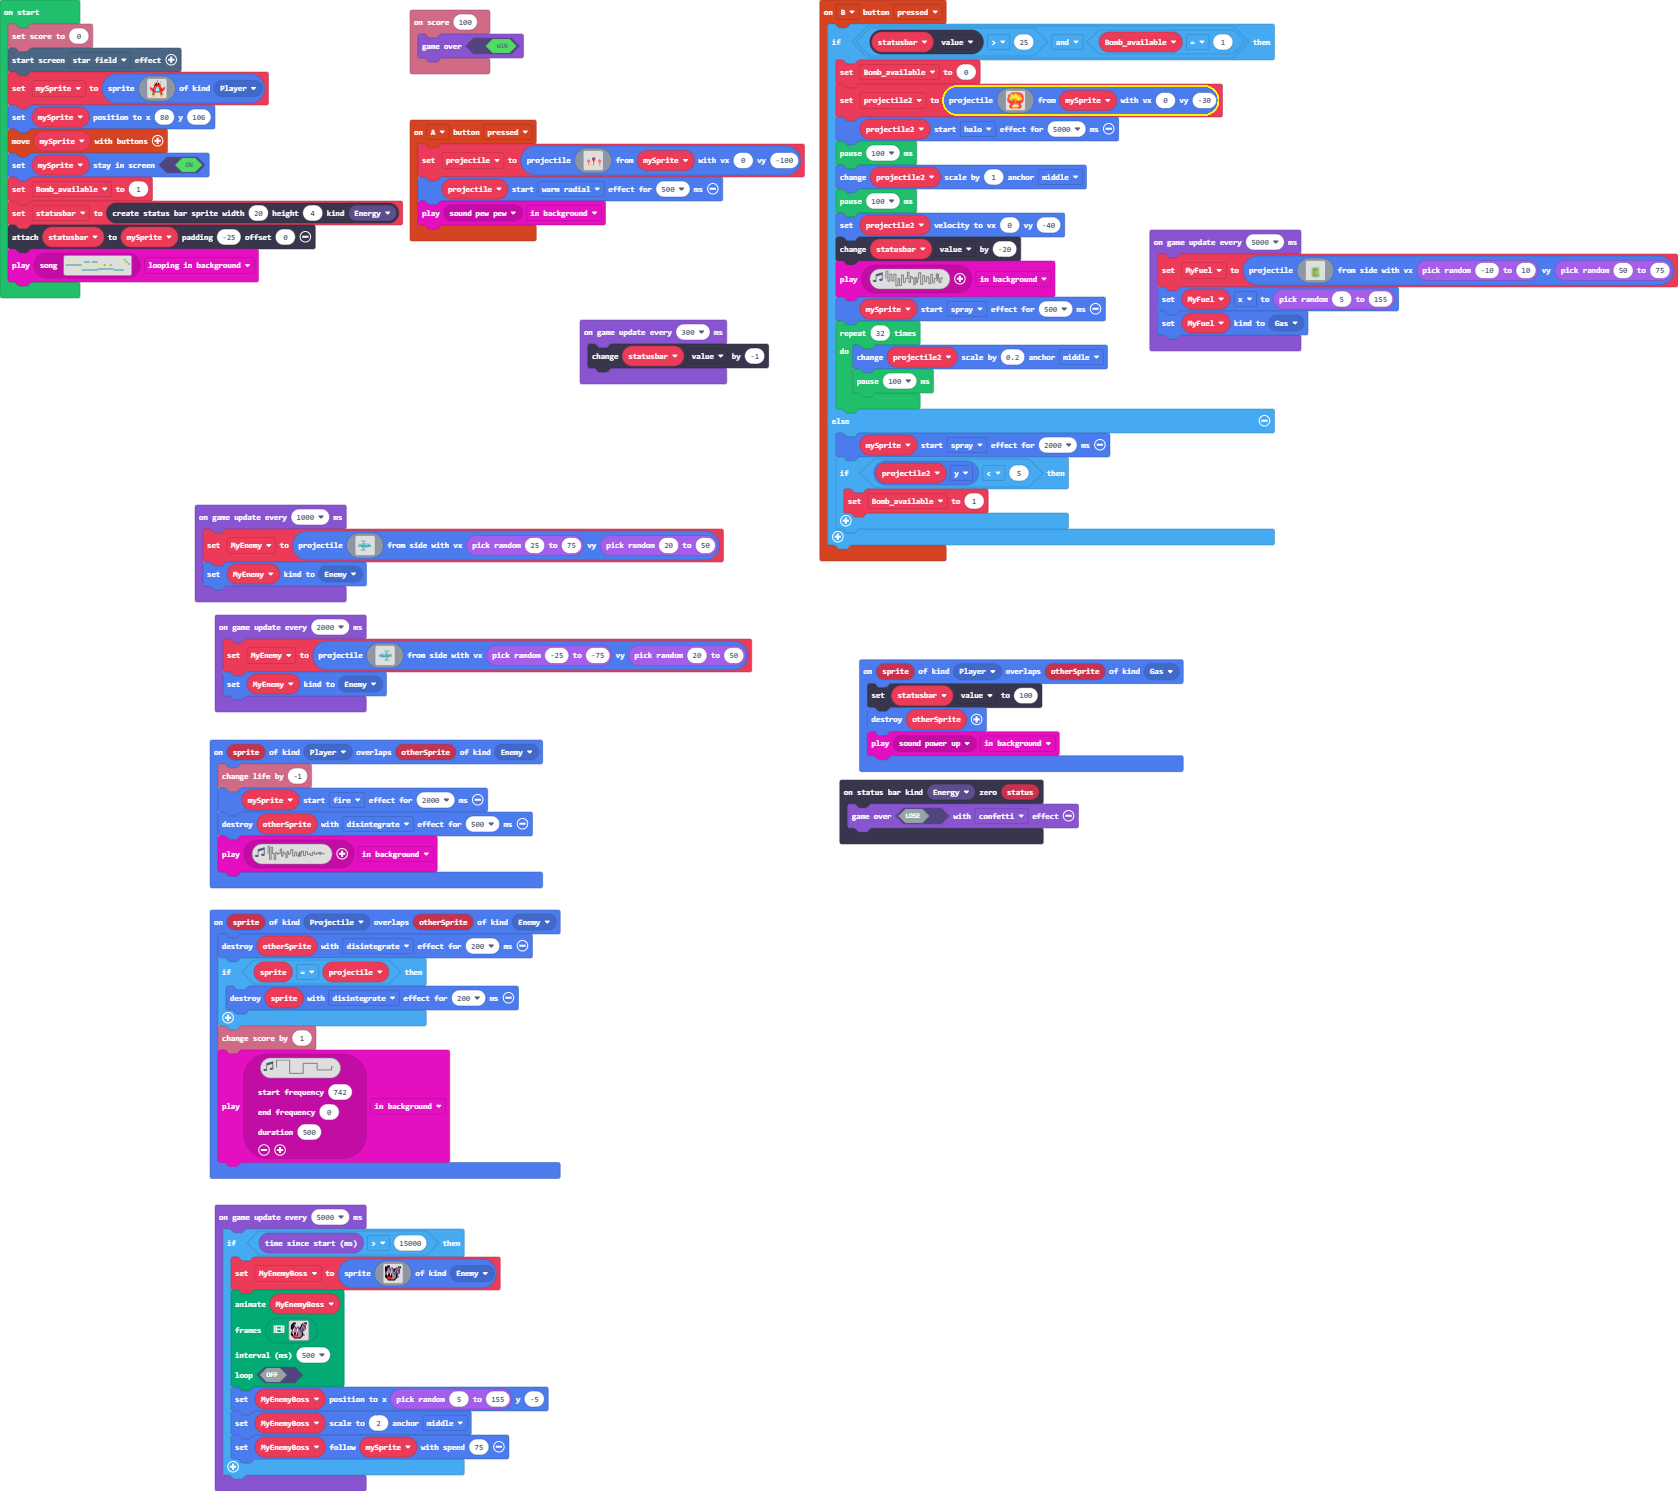
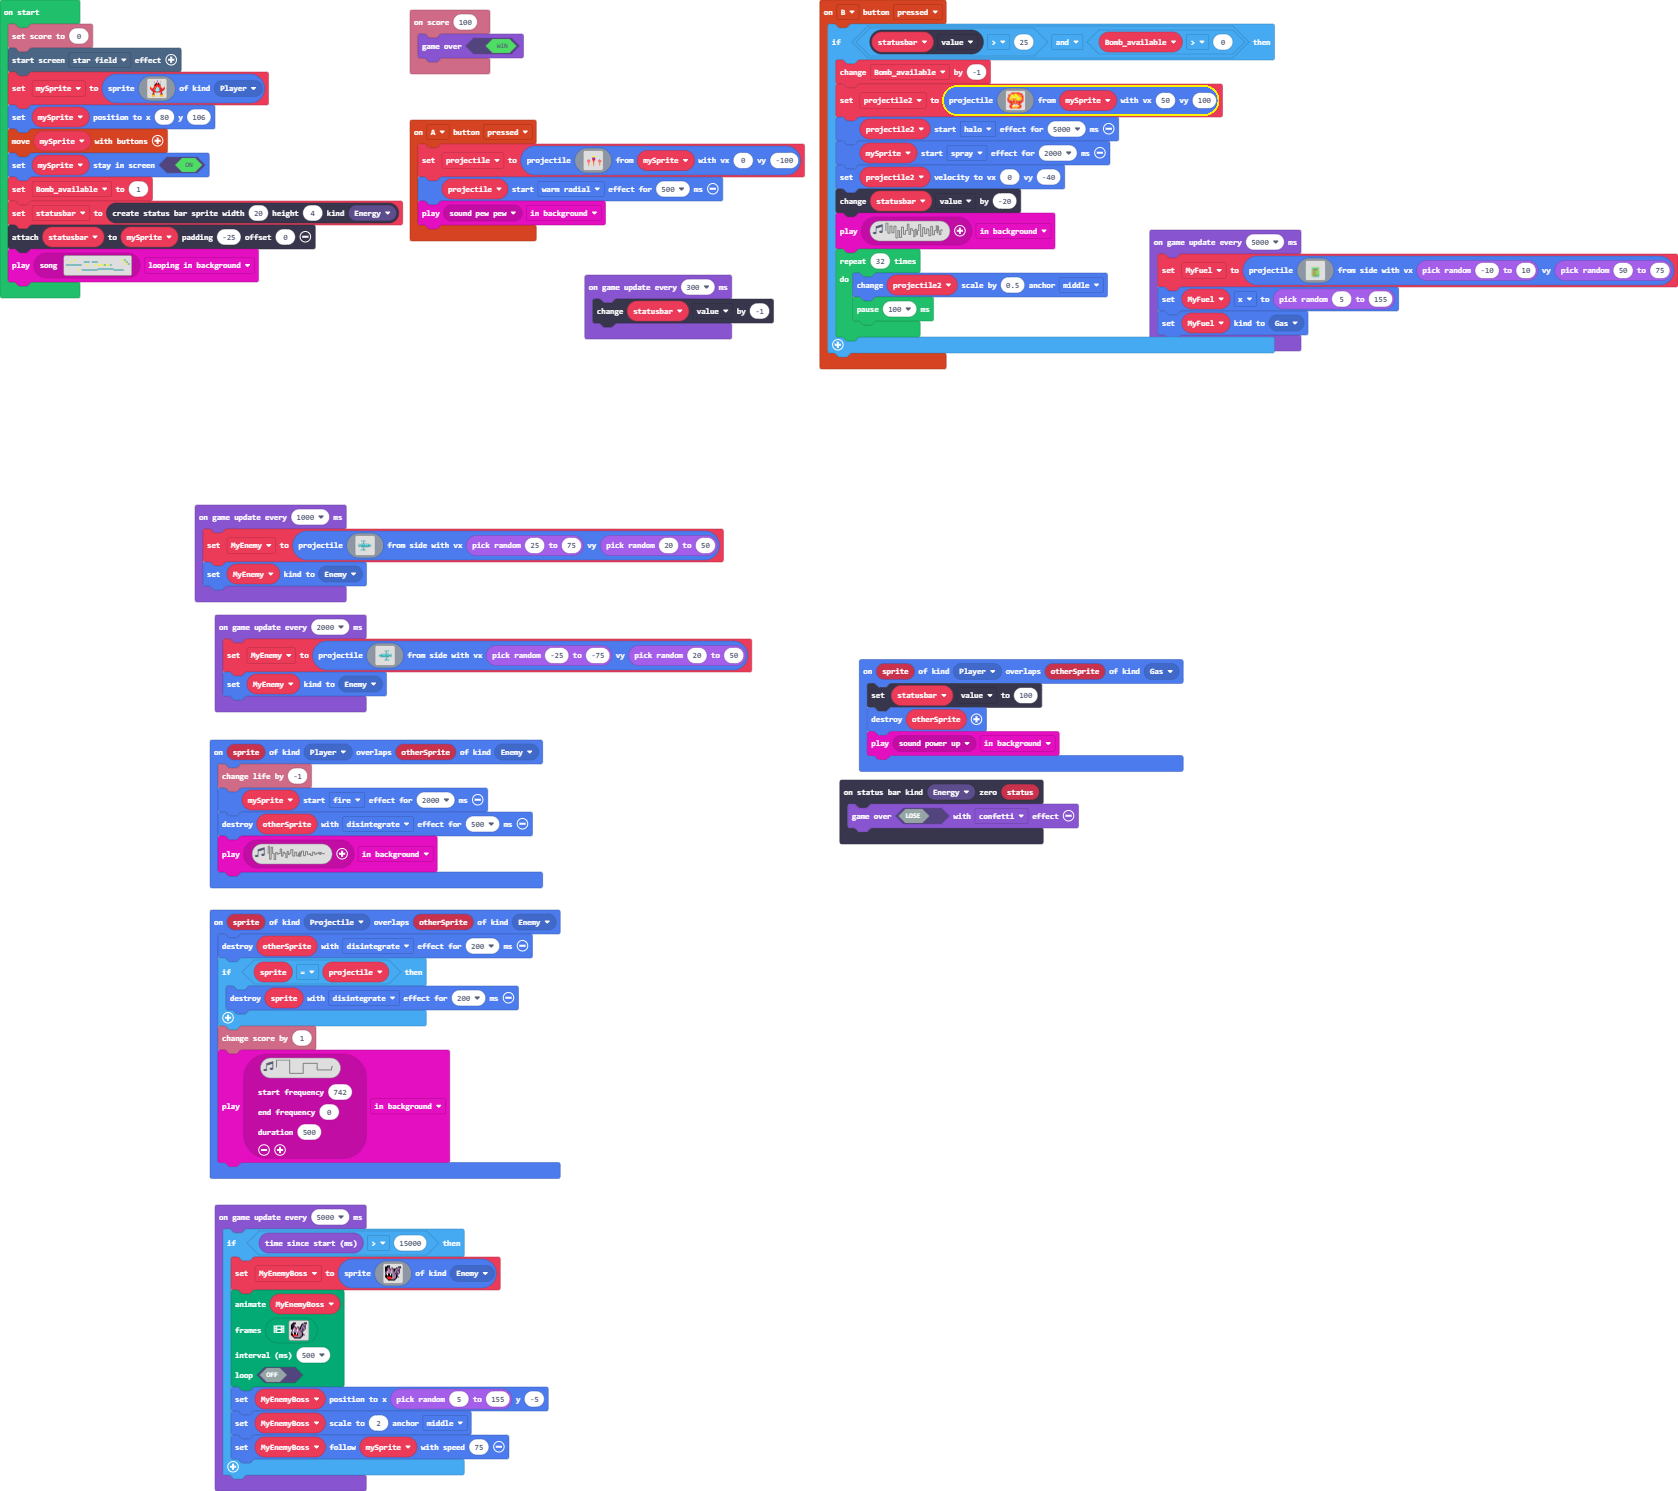
Update main.blocks, main.ts

Changed region(s): [[0.4648, 0.0926, 0.7747, 0.4011], [0.3409, 0.1851, 0.4648, 0.2777], [0.5578, 0.0309, 0.5888, 0.0617]]

diff --git a/main.ts b/main.ts
@@ -2,8 +2,8 @@ namespace SpriteKind {
     export const Gas = SpriteKind.create()
 }
 controller.B.onEvent(ControllerButtonEvent.Pressed, function () {
-    if (statusbar.value > 25 && Bomb_available == 1) {
-        Bomb_available = 0
+    if (statusbar.value > 25 && Bomb_available > 0) {
+        Bomb_available += -1
         projectile2 = sprites.createProjectileFromSprite(img`
             . . . . 2 2 2 2 2 2 2 2 4 . . . 
             . . . 2 4 4 4 5 5 4 4 4 2 2 2 . 
@@ -21,23 +21,15 @@ controller.B.onEvent(ControllerButtonEvent.Pressed, function () {
             . . 2 2 d 5 1 5 3 d 5 1 2 2 . . 
             . . 2 2 4 5 5 4 5 5 4 4 2 2 . . 
             . . . 2 2 4 4 4 4 4 2 2 2 . . . 
-            `, mySprite, 0, -30)
+            `, mySprite, 50, 100)
         projectile2.startEffect(effects.halo, 5000)
-        pause(100)
-        projectile2.changeScale(1, ScaleAnchor.Middle)
-        pause(100)
+        mySprite.startEffect(effects.spray, 2000)
         projectile2.setVelocity(0, -40)
         statusbar.value += -20
         music.play(music.createSoundEffect(WaveShape.Noise, 1768, 0, 255, 140, 3000, SoundExpressionEffect.None, InterpolationCurve.Linear), music.PlaybackMode.InBackground)
-        mySprite.startEffect(effects.spray, 500)
         for (let index = 0; index < 32; index++) {
-            projectile2.changeScale(0.2, ScaleAnchor.Middle)
+            projectile2.changeScale(0.5, ScaleAnchor.Middle)
             pause(100)
-        }
-    } else {
-        mySprite.startEffect(effects.spray, 2000)
-        if (projectile2.y < 5) {
-            Bomb_available = 1
         }
     }
 })
